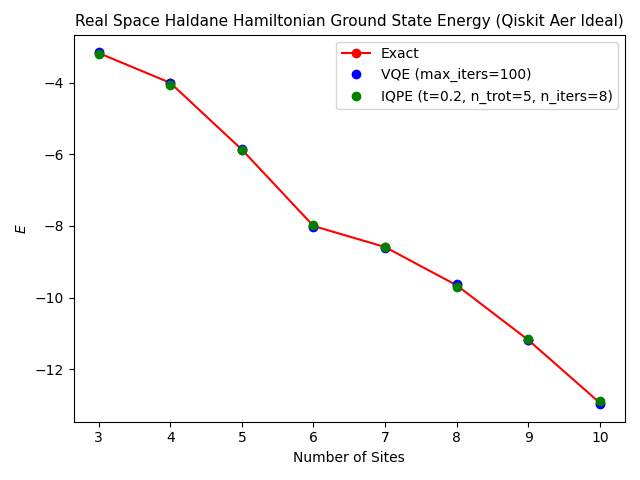
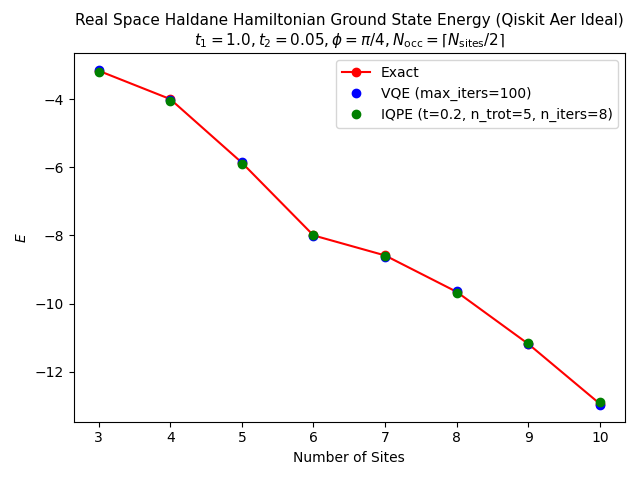
Updated real space plots to include parameters

diff --git a/scripts/haldane-model/real_space_particle_number_simulated_ideal.py b/scripts/haldane-model/real_space_particle_number_simulated_ideal.py
@@ -34,7 +34,7 @@ data = {
     "iqpe_error": {i: abs(iqpe[i]-exact[i]) for i in range(spin*n_sites+1)}
 }
 
-file_path = os.path.join(os.getcwd(), "..", "..", "cache/haldane-model/real-space/simulated-ideal-particle-number-"+str(n_sites)+"-sites.json")
+file_path = os.path.join(os.getcwd(), "..", "..", "cache/haldane-model/real-space/simulated-ideal-particle-number.json")
 with open(file_path, "w") as f:
     json.dump(data, f, indent=4)
 
@@ -45,10 +45,10 @@ plt.plot(range(spin*n_sites+1), data["iqpe"].values(), 'go', label=f"IQPE (t={t}
 plt.legend()
 plt.xlabel("Particle Number")
 plt.ylabel("$E$")
-plt.title("Real Space Haldane Hamiltonian Ground State Energy (Qiskit Aer Ideal)", fontsize=11)
+plt.title("Real Space Haldane Hamiltonian Ground State Energy (Qiskit Aer Ideal)\n$t_1="+str(t1)+", t_2="+str(t2)+", \\phi=\\pi/"+str(int(np.pi/phi))+", N_{\\text{sites}}="+str(n_sites)+"$", fontsize=11)
 plt.tight_layout()
 
-file_path = os.path.join(os.getcwd(), "..", "..", "plots/haldane-model/real-space/simulated-ideal-particle-number-"+str(n_sites)+"-sites.png")
+file_path = os.path.join(os.getcwd(), "..", "..", "plots/haldane-model/real-space/simulated-ideal-particle-number.png")
 plt.savefig(file_path)
 
 x = np.arange(spin*n_sites+1)
@@ -60,9 +60,9 @@ ax.bar(x+width, data["iqpe_error"].values(), width, label="IQPE", color="lightco
 
 ax.set_xlabel("Particle Number")
 ax.set_ylabel("Absolute Error")
-ax.set_title("Real Space Haldane Hamiltonian Ground State Energy (Qiskit Aer Ideal)", fontsize=11)
+ax.set_title("Real Space Haldane Hamiltonian Ground State Energy (Qiskit Aer Ideal)\n$t_1="+str(t1)+", t_2="+str(t2)+", \\phi=\\pi/"+str(int(np.pi/phi))+", N_{\\text{sites}}="+str(n_sites)+"$", fontsize=11)
 ax.set_xticks(x+width/2, range(spin*n_sites+1))
 ax.legend()
 
-file_path = os.path.join(os.getcwd(), "..", "..", "plots/haldane-model/real-space/simulated-ideal-particle-number-"+str(n_sites)+"-sites-error.png")
+file_path = os.path.join(os.getcwd(), "..", "..", "plots/haldane-model/real-space/simulated-ideal-particle-number-error.png")
 plt.savefig(file_path)

diff --git a/scripts/haldane-model/real_space_particle_number_simulated_noisy.py b/scripts/haldane-model/real_space_particle_number_simulated_noisy.py
@@ -36,7 +36,7 @@ data = {
     "iqpe_error": {i: abs(iqpe[i]-exact[i]) for i in range(spin*n_sites+1)}
 }
 
-file_path = os.path.join(os.getcwd(), "..", "..", "cache/haldane-model/real-space/simulated-noisy-particle-number-"+str(n_sites)+"-sites.json")
+file_path = os.path.join(os.getcwd(), "..", "..", "cache/haldane-model/real-space/simulated-noisy-particle-number.json")
 with open(file_path, "w") as f:
     json.dump(data, f, indent=4)
 
@@ -47,10 +47,10 @@ plt.plot(range(spin*n_sites+1), data["iqpe"].values(), 'go', label=f"IQPE (t={t}
 plt.legend()
 plt.xlabel("Particle Number")
 plt.ylabel("$E$")
-plt.title("Real Space Haldane Hamiltonian Ground State Energy (Qiskit Aer Noisy)", fontsize=11)
+plt.title("Real Space Haldane Hamiltonian Ground State Energy (Qiskit Aer Noisy)\n$t_1="+str(t1)+", t_2="+str(t2)+", \\phi=\\pi/"+str(int(np.pi/phi))+", N_{\\text{sites}}="+str(n_sites)+"$", fontsize=11)
 plt.tight_layout()
 
-file_path = os.path.join(os.getcwd(), "..", "..", "plots/haldane-model/real-space/simulated-noisy-particle-number-"+str(n_sites)+"-sites.png")
+file_path = os.path.join(os.getcwd(), "..", "..", "plots/haldane-model/real-space/simulated-noisy-particle-number.png")
 plt.savefig(file_path)
 
 x = np.arange(spin*n_sites+1)
@@ -62,9 +62,9 @@ ax.bar(x+width, data["iqpe_error"].values(), width, label="IQPE", color="lightco
 
 ax.set_xlabel("Particle Number")
 ax.set_ylabel("Absolute Error")
-ax.set_title("Real Space Haldane Hamiltonian Ground State Energy (Qiskit Aer Noisy)", fontsize=11)
+ax.set_title("Real Space Haldane Hamiltonian Ground State Energy (Qiskit Aer Noisy)\n$t_1="+str(t1)+", t_2="+str(t2)+", \\phi=\\pi/"+str(int(np.pi/phi))+", N_{\\text{sites}}="+str(n_sites)+"$", fontsize=11)
 ax.set_xticks(x+width/2, range(spin*n_sites+1))
 ax.legend()
 
-file_path = os.path.join(os.getcwd(), "..", "..", "plots/haldane-model/real-space/simulated-noisy-particle-number-"+str(n_sites)+"-sites-error.png")
+file_path = os.path.join(os.getcwd(), "..", "..", "plots/haldane-model/real-space/simulated-noisy-particle-number-error.png")
 plt.savefig(file_path)

diff --git a/scripts/haldane-model/real_space_site_number_simulated_ideal.py b/scripts/haldane-model/real_space_site_number_simulated_ideal.py
@@ -45,7 +45,7 @@ plt.plot(range(3, n_sites_max+1), data["iqpe"].values(), 'go', label=f"IQPE (t={
 plt.legend()
 plt.xlabel("Number of Sites")
 plt.ylabel("$E$")
-plt.title("Real Space Haldane Hamiltonian Ground State Energy (Qiskit Aer Ideal)", fontsize=11)
+plt.title("Real Space Haldane Hamiltonian Ground State Energy (Qiskit Aer Ideal)\n$t_1="+str(t1)+", t_2="+str(t2)+", \\phi=\\pi/"+str(int(np.pi/phi))+", N_{\\text{occ}}=\\lceil N_{\\text{sites}}/2 \\rceil$", fontsize=11)
 plt.tight_layout()
 
 file_path = os.path.join(os.getcwd(), "..", "..", "plots/haldane-model/real-space/simulated-ideal-site-number.png")
@@ -60,7 +60,7 @@ ax.bar(x+width, data["iqpe_error"].values(), width, label="IQPE", color="lightco
 
 ax.set_xlabel("Number of Sites")
 ax.set_ylabel("Absolute Error")
-ax.set_title("Real Space Haldane Hamiltonian Ground State Energy (Qiskit Aer Ideal)", fontsize=11)
+ax.set_title("Real Space Haldane Hamiltonian Ground State Energy (Qiskit Aer Ideal)\n$t_1="+str(t1)+", t_2="+str(t2)+", \\phi=\\pi/"+str(int(np.pi/phi))+", N_{\\text{occ}}=\\lceil N_{\\text{sites}}/2 \\rceil$", fontsize=11)
 ax.set_xticks(x+width/2, range(3, n_sites_max+1))
 ax.legend()
 

diff --git a/scripts/haldane-model/real_space_site_number_simulated_noisy.py b/scripts/haldane-model/real_space_site_number_simulated_noisy.py
@@ -47,7 +47,7 @@ plt.plot(range(3, n_sites_max+1), data["iqpe"].values(), 'go', label=f"IQPE (t={
 plt.legend()
 plt.xlabel("Number of Sites")
 plt.ylabel("$E$")
-plt.title("Real Space Haldane Hamiltonian Ground State Energy (Qiskit Aer Noisy)", fontsize=11)
+plt.title("Real Space Haldane Hamiltonian Ground State Energy (Qiskit Aer Noisy)\n$t_1="+str(t1)+", t_2="+str(t2)+", \\phi=\\pi/"+str(int(np.pi/phi))+", N_{\\text{occ}}=\\lceil N_{\\text{sites}}/2 \\rceil$", fontsize=11)
 plt.tight_layout()
 
 file_path = os.path.join(os.getcwd(), "..", "..", "plots/haldane-model/real-space/simulated-noisy-site-number.png")
@@ -62,7 +62,7 @@ ax.bar(x+width, data["iqpe_error"].values(), width, label="IQPE", color="lightco
 
 ax.set_xlabel("Number of Sites")
 ax.set_ylabel("Absolute Error")
-ax.set_title("Real Space Haldane Hamiltonian Ground State Energy (Qiskit Aer Noisy)", fontsize=11)
+ax.set_title("Real Space Haldane Hamiltonian Ground State Energy (Qiskit Aer Noisy)\n$t_1="+str(t1)+", t_2="+str(t2)+", \\phi=\\pi/"+str(int(np.pi/phi))+", N_{\\text{occ}}=\\lceil N_{\\text{sites}}/2 \\rceil$", fontsize=11)
 ax.set_xticks(x+width/2, range(3, n_sites_max+1))
 ax.legend()
 

diff --git a/scripts/haldane-model/real_space_phi_exact.py b/scripts/haldane-model/real_space_phi_exact.py
@@ -1,0 +1,22 @@
+from utils import real_space_exact
+import numpy as np
+import matplotlib.pyplot as plt
+import os
+
+n_sites, n_occ = 6, 9
+t1, t2 = 1.0, 0.05
+spin = 2
+
+data = {}
+for phi in np.linspace(0, 2*np.pi, 12):
+    data[phi] = real_space_exact(n_sites, t1, t2, phi, n_occ)
+
+plt.figure()
+plt.plot(np.linspace(0, 2*np.pi, 12), data.values(), 'ro-')
+plt.xlabel("$\\phi$")
+plt.ylabel("$E$")
+plt.title("Real Space Haldane Hamiltonian Ground State Energy (Exact)\n$t_1="+str(t1)+", t_2="+str(t2)+", N_{\\text{sites}}="+str(n_sites)+", N_{\\text{occ}}="+str(n_occ)+"$")
+plt.tight_layout()
+
+file_path = os.path.join(os.getcwd(), "..", "..", "plots/haldane-model/real-space/exact-phi.png")
+plt.savefig(file_path)

diff --git a/scripts/haldane-model/real_space_particle_number_exact.py b/scripts/haldane-model/real_space_particle_number_exact.py
@@ -15,8 +15,8 @@ plt.figure()
 plt.plot(range(spin*n_sites+1), data.values(), 'ro-')
 plt.xlabel("Particle Number")
 plt.ylabel("$E$")
-plt.title("Real Space Haldane Hamiltonian Ground State Energy (Exact)")
+plt.title("Real Space Haldane Hamiltonian Ground State Energy (Exact)\n$t_1="+str(t1)+", t_2="+str(t2)+", \\phi=\\pi/"+str(int(np.pi/phi))+", N_{\\text{sites}}="+str(n_sites)+"$")
 plt.tight_layout()
 
-file_path = os.path.join(os.getcwd(), "..", "..", "plots/haldane-model/real-space/exact-particle-number-"+str(n_sites)+"-sites.png")
+file_path = os.path.join(os.getcwd(), "..", "..", "plots/haldane-model/real-space/exact-particle-number.png")
 plt.savefig(file_path)

diff --git a/scripts/haldane-model/real_space_site_number_exact.py b/scripts/haldane-model/real_space_site_number_exact.py
@@ -15,7 +15,7 @@ plt.figure()
 plt.plot(range(3, n_sites_max+1), data.values(), 'ro-')
 plt.xlabel("Number of Sites")
 plt.ylabel("$E$")
-plt.title("Real Space Haldane Hamiltonian Ground State Energy (Exact)")
+plt.title("Real Space Haldane Hamiltonian Ground State Energy (Exact)\n$t_1="+str(t1)+", t_2="+str(t2)+", \\phi=\\pi/"+str(int(np.pi/phi))+", N_{\\text{occ}}=\\lceil N_{\\text{sites}}/2 \\rceil$")
 plt.tight_layout()
 
 file_path = os.path.join(os.getcwd(), "..", "..", "plots/haldane-model/real-space/exact-site-number.png")
